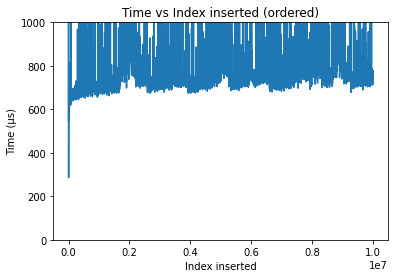
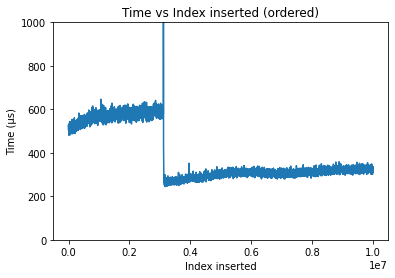
Jupyter notebook, bash script for testing - TERMINADO ✨
clenaup

cleanup

cleanup

cleanup

cleanup

Changed region(s): [[0.1519, 0.0576, 0.9722, 0.6906]]

diff --git a/mainTest.cpp b/mainTest.cpp
@@ -38,23 +38,22 @@ int main(int argc, char **argv) {
 
     int sort = {{SORT}}; // 0 - unordered 1 - ordered 2 - reverse ordered
                          //
-    if (sort == 1) {
-      std::sort(data.begin(), data.end());
-    }
-
-    if (sort == 2) {
-      std::sort(data.begin(), data.end());
-      std::reverse(data.begin(), data.end());
-    }
-
     Set4Batches<uint32_t, {{DEGREE}}, {{THREADS}}> treeP(helper_data);
     for (int i = 0; i < N; i += 1000) {
       // create a sub vector of 1000 elements
-      auto parallel = measure(1, [&treeP, &data, i] {
-        std::vector<uint32_t> subVector(data.begin() + i,
-                                        data.begin() + i + 1000);
-        treeP.insert(subVector);
-      });
+      std::vector<uint32_t> subVector(data.begin() + i,
+                                      data.begin() + i + 1000);
+      if (sort == 1) {
+        std::sort(subVector.begin(), subVector.end());
+      }
+
+      if (sort == 2) {
+        std::sort(subVector.begin(), subVector.end());
+        std::reverse(subVector.begin(), subVector.end());
+      }
+
+      auto parallel = measure(
+          1, [&treeP, &data, i, &subVector]() { treeP.insert(subVector); });
       std::cout << parallel << std::endl;
     }
   }
@@ -126,10 +125,13 @@ int main(int argc, char **argv) {
 
   if ({{EXPERIMENT}} == 4) {
     int N = 10000000;
-    std::vector<uint32_t> helper_data(N / {{DEGREE}});
+    uint32_t NN = N * 10;
+
+    std::vector<uint32_t> helper_data(NN / {{DEGREE}});
+    int operation = {{SORT}}; // 0 - contains | 1 - insert | 2 - erase
 
     {
-      for (int i = 0; i < N / {{DEGREE}}; ++i)
+      for (uint32_t i = 0; i < NN / {{DEGREE}}; ++i)
         helper_data[i] = i * {{DEGREE}};
     }
 
@@ -144,10 +146,25 @@ int main(int argc, char **argv) {
         }
     }
 
-    Set4Batches<uint32_t, {{DEGREE}}, {{THREADS}}> treeP(helper_data);
-    treeP.insert(data);
-    auto parallel =
-        measure(1, [&treeP, &data] { auto r = treeP.contains(data); });
-    std::cout << parallel / 1000 << std::endl;
+    if (operation == 0) {
+      Set4Batches<uint32_t, {{DEGREE}}, {{THREADS}}> treeP(helper_data);
+      treeP.insert(data);
+      auto parallel =
+          measure(1, [&treeP, &data] { auto r = treeP.contains(data); });
+      std::cout << parallel / 1000 << std::endl;
+    }
+    if (operation == 1) {
+      Set4Batches<uint32_t, {{DEGREE}}, {{THREADS}}> treeP(helper_data);
+      auto parallel =
+          measure(1, [&treeP, &data] { treeP.insert(data); });
+      std::cout << parallel / 1000 << std::endl;
+    }
+    if (operation == 2) {
+      Set4Batches<uint32_t, {{DEGREE}}, {{THREADS}}> treeP(helper_data);
+      treeP.insert(data);
+      auto parallel =
+          measure(1, [&treeP, &data] { treeP.erase(data); });
+      std::cout << parallel / 1000 << std::endl;
+    }
   }
 }
